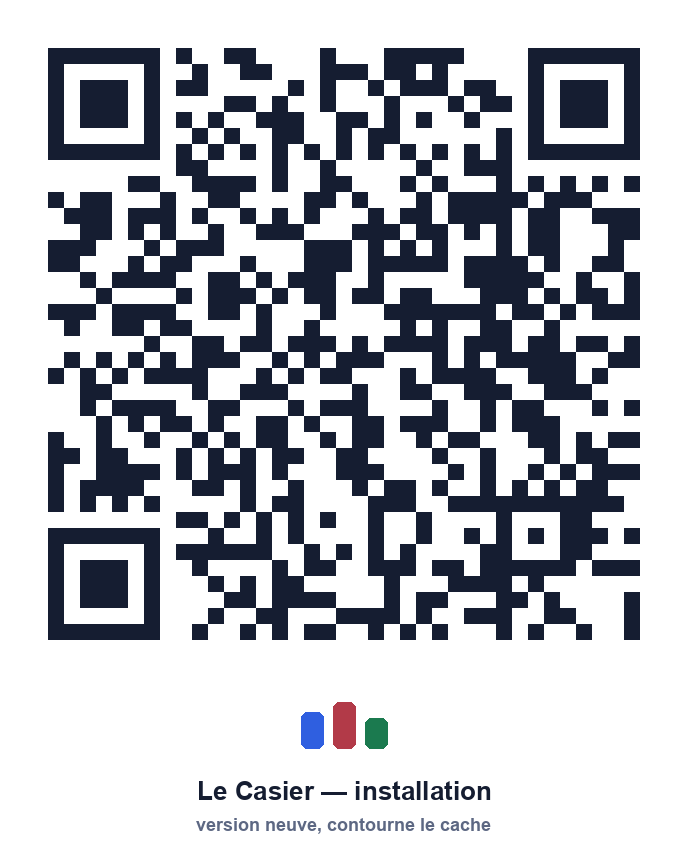
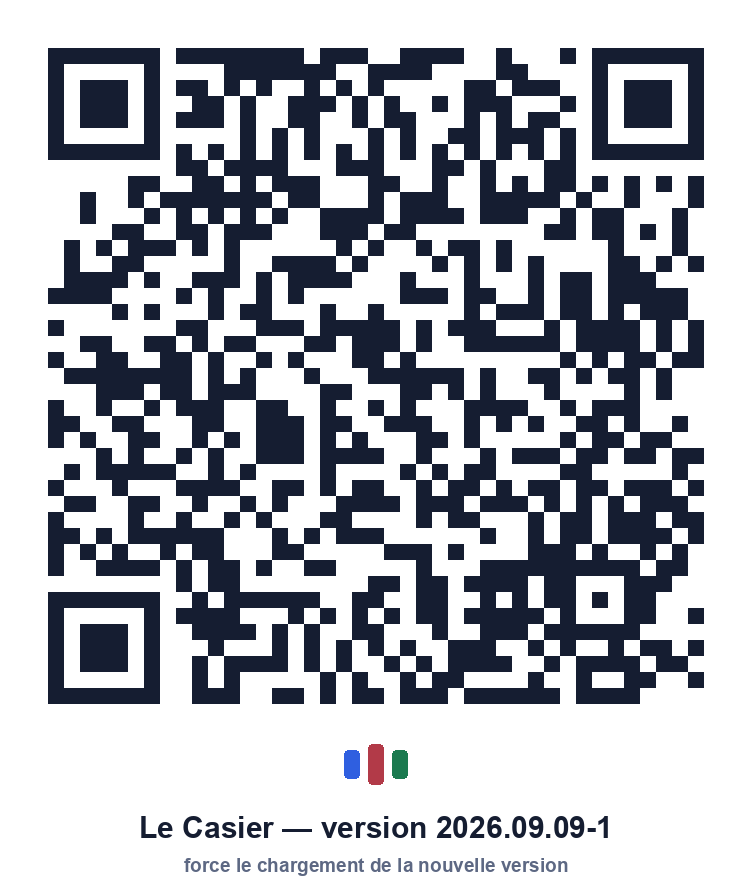
Fabriquer les QR depuis la version de l'application
Le QR « installeur » porte un suffixe ?v=<date> qui force le navigateur
à recharger l'application au lieu de resservir son cache. Il pointait
encore vers la version de la veille, sans que rien ne le signale.

Le script lit maintenant VERSION_APP dans index.html plutôt que de la
faire retaper, ce qui supprime la seule cause de ce décalage.

diff --git a/outils/qr.py b/outils/qr.py
@@ -1,0 +1,85 @@
+#!/usr/bin/env python3
+# Fabrique les deux QR du Casier.
+#
+#   python3 outils/qr.py
+#
+# Le QR « lien » ne change jamais : l'adresse du site est stable.
+# Le QR « installeur » porte un suffixe ?v=<date> qui force le
+# navigateur à recharger l'application au lieu de servir sa copie en
+# cache. Il est donc à refaire à chaque changement de version — c'est
+# la seule raison d'être de ce script.
+
+import re, pathlib, segno
+from PIL import Image, ImageDraw, ImageFont
+
+RACINE = pathlib.Path(__file__).resolve().parent.parent
+SITE   = "https://sfd09.github.io/le-casier/"
+
+ENCRE  = (21, 29, 49)      # --ink
+SOURD  = (93, 104, 131)    # --muted
+PAPIER = (255, 255, 255)
+BARRES = [(47, 95, 224), (178, 58, 72), (27, 122, 79)]   # accent, lecture, sport
+
+GRAS   = "/System/Library/Fonts/Supplemental/Arial Bold.ttf"
+
+
+def version_app():
+    """La version affichée dans l'application fait foi."""
+    t = (RACINE / "index.html").read_text(encoding="utf-8")
+    m = re.search(r'VERSION_APP\s*=\s*"([^"]+)"', t)
+    if not m:
+        raise SystemExit("VERSION_APP introuvable dans index.html")
+    return m.group(1)
+
+
+def dessiner(sortie, donnees, titre, legende, large=620, marge=48):
+    qr = segno.make(donnees, error="h")          # 30 % de tolérance : un QR
+    tmp = RACINE / "outils" / "_qr.png"          # imprimé se salit, se plie
+    # Un module doit tomber sur un nombre entier de pixels, sinon les
+    # carrés bavent les uns sur les autres et les lecteurs peinent.
+    modules = segno.make(donnees, error="h").symbol_size(scale=1, border=0)[0]
+    qr.save(tmp, scale=max(1, round((large - 2 * marge) / modules)),
+            border=0, dark="#151D31", light="#FFFFFF")
+    grille = Image.open(tmp)
+
+    f_titre = ImageFont.truetype(GRAS, 30)
+    f_leg   = ImageFont.truetype(GRAS, 19)
+
+    largeur = grille.width + marge * 2
+    hauteur = grille.height + marge * 2 + 130
+    im = Image.new("RGB", (largeur, hauteur), PAPIER)
+    im.paste(grille, (marge, marge))
+
+    d = ImageDraw.Draw(im)
+    y = marge + grille.height + 40
+
+    # Les trois barres de l'icône : trois circuits, don, troc, vente.
+    lb, hb, ec = 15, 40, 9
+    x = (largeur - (3 * lb + 2 * ec)) // 2
+    for i, c in enumerate(BARRES):
+        h = hb if i == 1 else int(hb * 0.72)
+        hx = x + i * (lb + ec)
+        d.rounded_rectangle([hx, y + (hb - h) // 2, hx + lb, y + (hb - h) // 2 + h],
+                            radius=4, fill=c)
+    y += hb + 26
+
+    for texte, police, couleur in ((titre, f_titre, ENCRE), (legende, f_leg, SOURD)):
+        l = d.textbbox((0, 0), texte, font=police)[2]
+        d.text(((largeur - l) // 2, y), texte, font=police, fill=couleur)
+        y += police.size + 14
+
+    im.save(RACINE / sortie)
+    tmp.unlink()
+    print(f"{sortie:22} {im.width}×{im.height}  →  {donnees}")
+
+
+if __name__ == "__main__":
+    v = version_app()                      # ex. 2026.09.09-1
+    jour = v.split("-")[0].replace(".", "")  # → 20260909
+
+    dessiner("qr-le-casier.png", SITE,
+             "Le Casier du lycée", "sfd09.github.io/le-casier", large=620)
+
+    dessiner("qr-installer.png", f"{SITE}?v={jour}",
+             f"Le Casier — version {v}", "force le chargement de la nouvelle version",
+             large=750)
